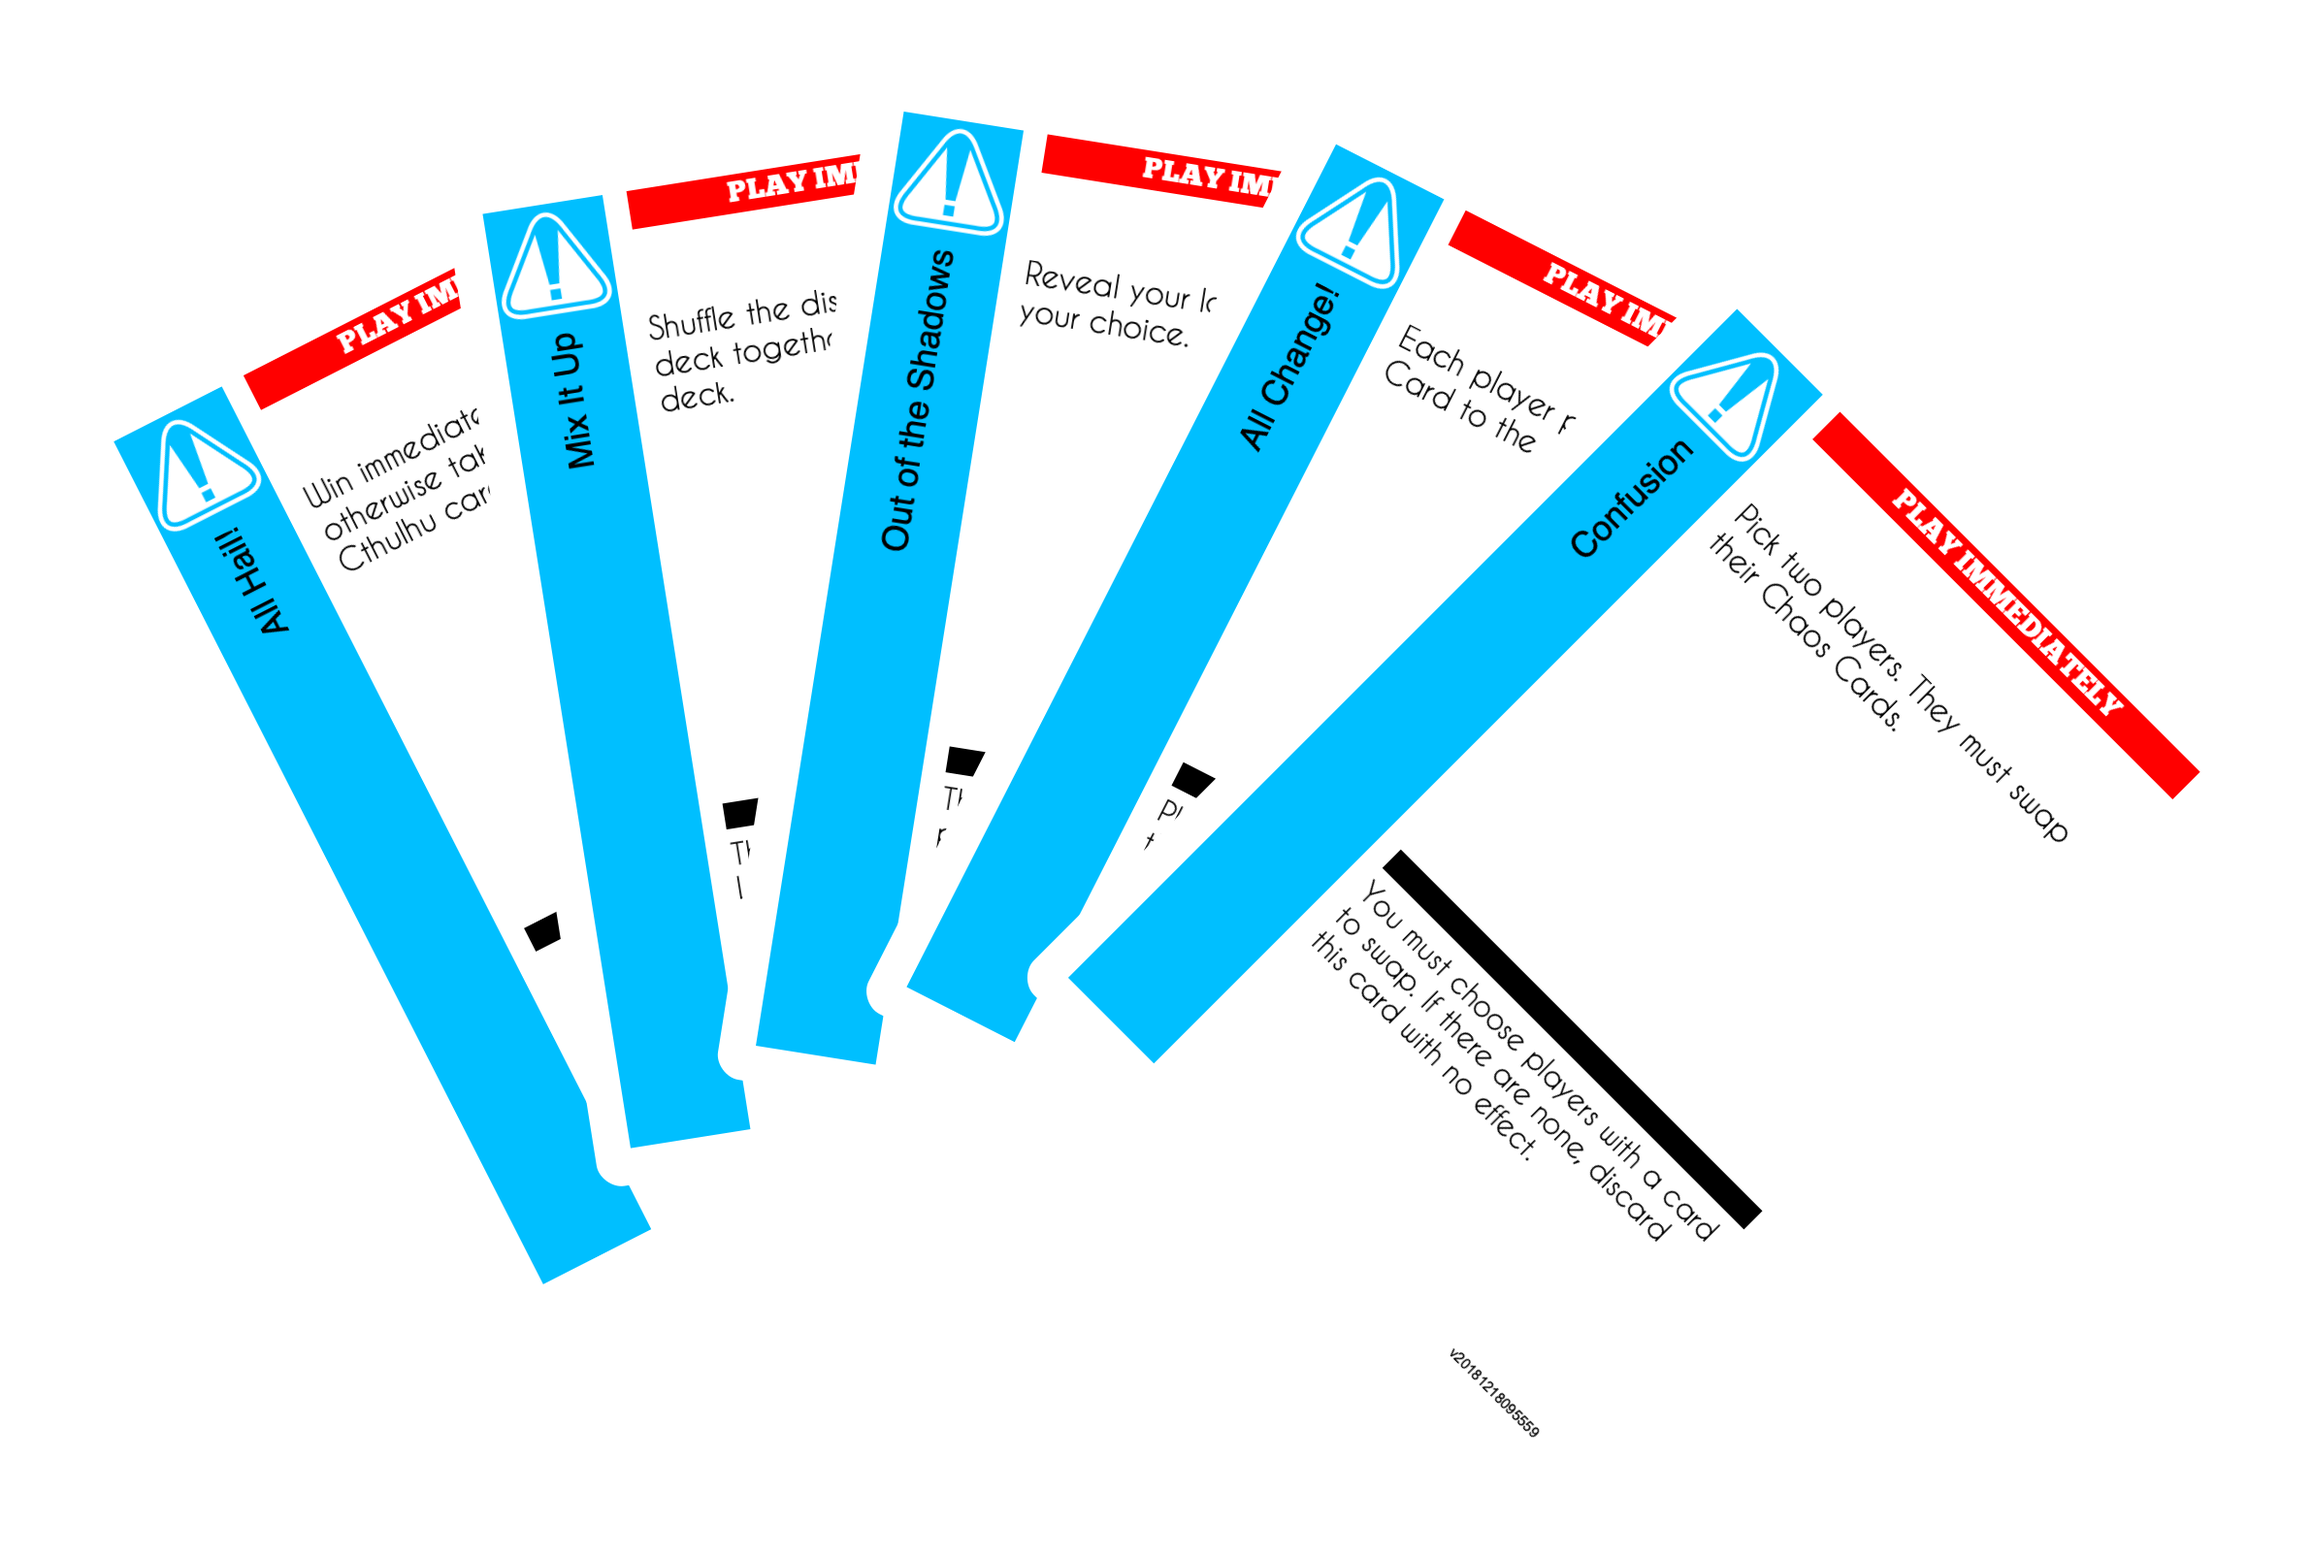
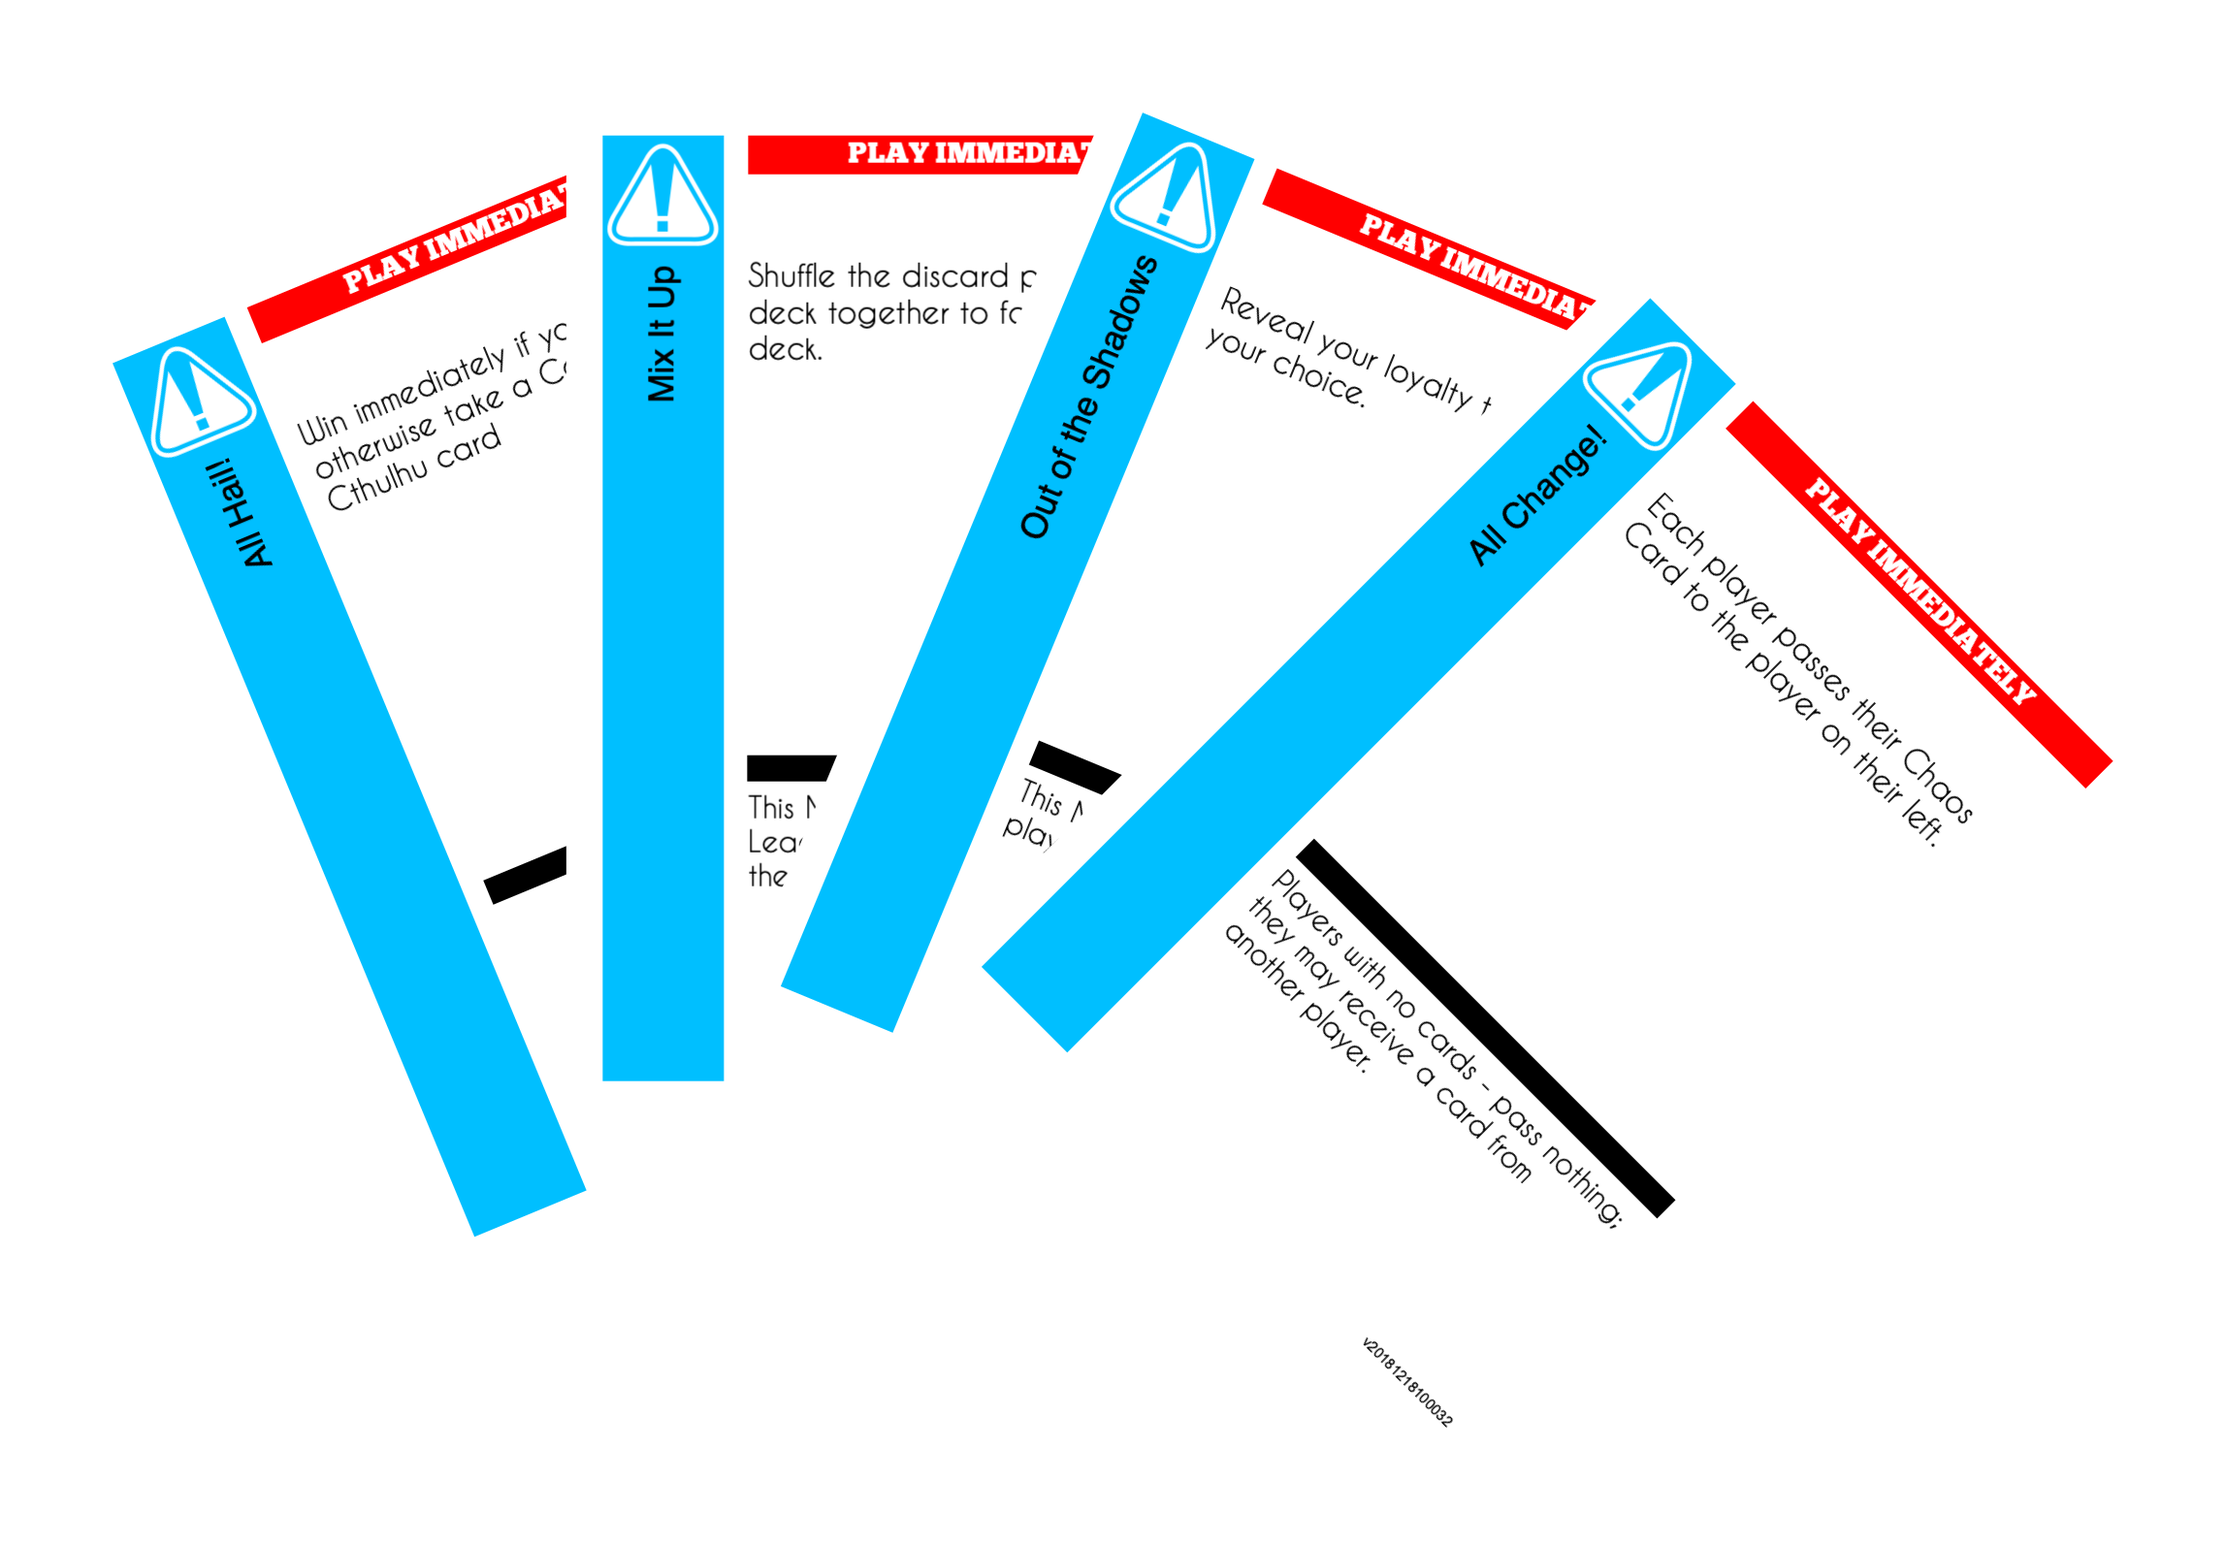
4 cards per showcase

diff --git a/chaos-deck.rb b/chaos-deck.rb
@@ -47,7 +47,7 @@ Squib::Deck.new(cards: deck['Title'].size, layout: %w(failure-deck.yml)) do
 
   showcaseIndices = deck['AddToShowcase']
   showcaseIndices = (0 .. showcaseIndices.size).reject {|i| showcaseIndices[i].nil? }
-  showcaseIndices.each_slice(5).to_a.each_with_index do |sc,i|
+  showcaseIndices.each_slice(4).to_a.each_with_index do |sc,i|
     showcase trim: 32, trim_radius: 32, margin: 100, face: :right,
             scale: 0.85, offset: 0.95, fill_color: :black,
             reflect_offset: 25, reflect_strength: 0.1, reflect_percent: 0.4,
